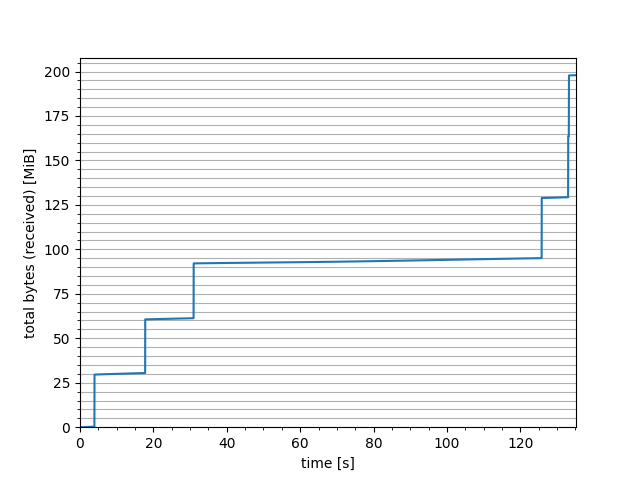
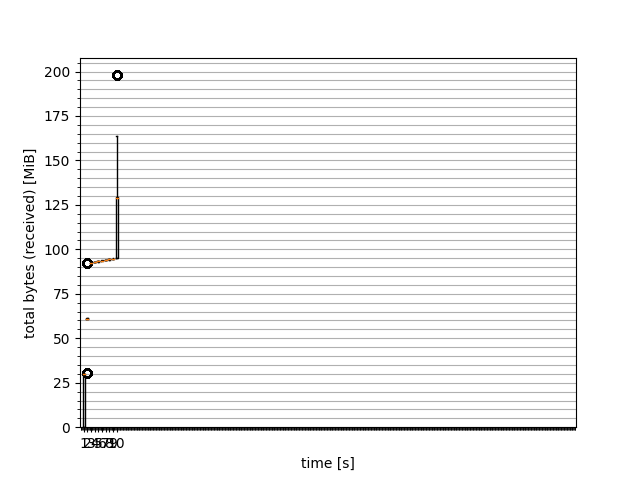
add functionality to create median graphs

diff --git a/DataOutput.py b/DataOutput.py
@@ -39,17 +39,17 @@ class DataOutput:
         self.pps_recv = pps_recv
         self.pps_sent = pps_sent
 
-    def make_graphs_for_directory(self, dir_path):
+    def make_graphs_for_directory(self, dir_path, full, median):
         try:
             for file in os.listdir(dir_path):
                 if file[-5:] == ".json":
                     file_path = dir_path + "/" + file
-                    self.make_graphs_for_file(file_path)
+                    self.make_graphs_for_file(file_path, full, median)
                     plt.close()
         except NotADirectoryError:
             print_err("The given path is not a directory!")
 
-    def make_graphs_for_file(self, file_path):
+    def make_graphs_for_file(self, file_path, full, median):
         self.file = open(file_path)
         self.data = json.load(self.file)
         file_name = os.path.basename(file_path)
@@ -58,7 +58,7 @@ class DataOutput:
             print_warn(f"Skipping {file_name}. Not a json file!")
             return
 
-        self.__make_graph(file_name)
+        self.__make_graph(file_name, full, median)
 
     def compare_graphs(self, path, number_of_files):
         # check if the number of files is too high
@@ -247,7 +247,7 @@ class DataOutput:
                 plt.clf()
                 print(f"File saved as {short_path}/{l}.png.")
 
-    def __make_graph(self, file_name):
+    def __make_graph(self, file_name, full, median):
         self.__reset_lists()
         self.__fill_lists()
         timestamps = self.__get_timestamps()
@@ -262,7 +262,8 @@ class DataOutput:
 
                 plt.grid(True, "both", "y")
                 plt.xlabel("time [s]")
-                # plt.minorticks_on()
+                if not median:
+                    plt.minorticks_on()
 
                 if l == "bytes_recv" or l == "bytes_sent":
                     # get the unit of the maximum value and use it for all values
@@ -280,69 +281,51 @@ class DataOutput:
 
                     plt.xlim([0, max(timestamps)])
                     plt.ylim([0, max(values) + 0.05 * max(values)])
-
-                    # plt.plot(timestamps, values)
-                    data = []
-                    nr = len(timestamps)
-
-                    sub_data = []
-                    init_cnt = nr // 10
-                    print(nr)
-                    print(init_cnt)
-                    cnt = init_cnt
-                    for e in self.lists[l]:
-                        sub_data.append(e)
-                        if cnt > 1:
-                            cnt -= 1
-                        else:
-                            cnt = init_cnt
-                            data.append(sub_data)
-                            sub_data = []
-
-                    # plt.plot(timestamps, self.lists[l])
-                    plt.boxplot(data)
+                    
+                    if median:
+                        data = self.__partition_data(self.lists[l], len(timestamps))
+                        plt.boxplot(
+                            data,
+                            showfliers=True,
+                            flierprops=dict(marker="x", markeredgecolor="lightgrey"),
+                            medianprops=dict(color="blue", linewidth=1.5),
+                        )
+                    else:
+                        plt.xlim([0, max(timestamps)])
+                        plt.plot(timestamps, self.lists[l])
                 elif l == "cpu_percent" or l == "ram_percent":
                     if l == "cpu_percent":
                         plt.ylabel("CPU usage [%]")
                     else:
                         plt.ylabel("RAM usage [%]")
 
-                    if min(self.lists[l]) <= 15:
-                        min_limit = 0
+                    min_limit = 0
+                    max_limit = 100
+
+                    if not full:
+                        if min(self.lists[l]) > 15:
+                            min_limit = 0.95 * min(
+                                self.lists[l]
+                            )  # set min_limit to 5 percent less than the actual minimum
+
+                        if max(self.lists[l]) < 85:
+                            max_limit = 1.05 * max(
+                                self.lists[l]
+                            )  # set max_limit to 5 percent more than the actual maximum
+
+                    plt.ylim([min_limit, max_limit])
+
+                    if median:
+                        data = self.__partition_data(self.lists[l], len(timestamps))
+                        plt.boxplot(
+                            data,
+                            showfliers=True,
+                            flierprops=dict(marker="x", markeredgecolor="lightgrey"),
+                            medianprops=dict(color="blue", linewidth=1.5),
+                        )
                     else:
-                        min_limit = 0.95 * min(
-                            self.lists[l]
-                        )  # set min_limit to 5 percent less than the actual minimum
-
-                    if max(self.lists[l]) >= 85:
-                        max_limit = 100
-                    else:
-                        max_limit = 1.05 * max(
-                            self.lists[l]
-                        )  # set max_limit to 5 percent more than the actual maximum
-
-                    # plt.xlim([0, max(timestamps)])
-                    plt.ylim([0, 100])
-
-                    data = []
-                    nr = len(timestamps)
-
-                    sub_data = []
-                    init_cnt = nr // 8
-                    print(nr)
-                    print(init_cnt)
-                    cnt = init_cnt
-                    for e in self.lists[l]:
-                        sub_data.append(e)
-                        if cnt > 1:
-                            cnt -= 1
-                        else:
-                            cnt = init_cnt
-                            data.append(sub_data)
-                            sub_data = []
-
-                    # plt.plot(timestamps, self.lists[l])
-                    plt.boxplot(data, showfliers=True, flierprops = dict(marker = "x", markeredgecolor='lightgrey'), medianprops = dict(color = "blue", linewidth = 1.5))
+                        plt.xlim([0, max(timestamps)])
+                        plt.plot(timestamps, self.lists[l])
                 elif l == "pps_recv" or l == "pps_sent":
                     if l == "pps_recv":
                         plt.ylabel("packets per second (received)")
@@ -356,11 +339,16 @@ class DataOutput:
                 else:
                     plt.plot(timestamps, self.lists[l])
 
-                plt.savefig(os.path.join(file_path, l))
-                plt.clf()
+                if median:
+                    l += "_median"
+                    
+                if full:
+                    l += "_full"
 
-                no_data = False
+                plt.savefig(os.path.join(file_path, l))
                 print(f"File saved as {short_path}/{l}.png.")
+                plt.clf()
+                no_data = False
         if no_data == True:
             print("No data. Not printing any graphs.")
 
@@ -370,6 +358,23 @@ class DataOutput:
     def __reset_lists(self):
         for l in self.lists:
             self.lists[l] = []
+
+    def __partition_data(self, initial_data, number_timestamps, number_blocks=8):
+        data = []
+        sub_data = []
+        init_cnt = number_timestamps // 8
+        cnt = init_cnt
+
+        for e in initial_data:
+            sub_data.append(e)
+            if cnt > 1:
+                cnt -= 1
+            else:
+                cnt = init_cnt
+                data.append(sub_data)
+                sub_data = []
+
+        return data
 
     def __fill_lists(self):
         for i in range(len(self.data["data"])):
@@ -468,6 +473,24 @@ def cli(compare, path):
                 "pps_sent",
             ],
         ),
+        inquirer.List(
+            "full",
+            message="Create full or detailed graphs?",
+            choices=[
+                "only full graphs (0 to 100 percent)",
+                "only detailed graphs",
+                "both",
+            ],
+        ),
+        inquirer.List(
+            "median",
+            message="Create min/max/median graphs?",
+            choices=[
+                "only min/max/median graphs",
+                "only normal graphs",
+                "both",
+            ],
+        ),
     ]
 
     answers = inquirer.prompt(questions)
@@ -476,10 +499,35 @@ def cli(compare, path):
         print_err("Something went wrong!")
         return
 
+    for a in answers:
+        if a == None:
+            print_err("Something went wrong!")
+            return
+
     if "all" in answers["values"]:
         all = True
     else:
         all = False
+
+    if answers["full"] == "only full graphs (0 to 100 percent)":
+        full_graphs = True
+        detailed_graphs = False
+    elif answers["full"] == "only detailed graphs":
+        full_graphs = False
+        detailed_graphs = True
+    else:
+        full_graphs = True
+        detailed_graphs = True
+
+    if answers["median"] == "only min/max/median graphs":
+        median_graphs = True
+        normal_graphs = False
+    elif answers["median"] == "only normal graphs":
+        median_graphs = False
+        normal_graphs = True
+    else:
+        median_graphs = True
+        normal_graphs = True
 
     if compare == 0 or compare == 1:
         # if path is directory
@@ -493,7 +541,14 @@ def cli(compare, path):
                 pps_sent="pps_sent" in answers["values"] or all,
             )
             print("Creating graphs for all json files in the directory...")
-            output.make_graphs_for_directory(path)
+            if full_graphs and median_graphs:
+                output.make_graphs_for_directory(path, full=True, median=True)
+            if full_graphs and normal_graphs:
+                output.make_graphs_for_directory(path, full=True, median=False)
+            if detailed_graphs and median_graphs:
+                output.make_graphs_for_directory(path, full=False, median=True)
+            if detailed_graphs and normal_graphs:
+                output.make_graphs_for_directory(path, full=False, median=False)
         # if path is json file
         elif os.path.isfile(path) and path[-5:] == ".json":
             output = DataOutput(
@@ -505,7 +560,14 @@ def cli(compare, path):
                 pps_sent="pps_sent" in answers["values"] or all,
             )
             print("Creating graphs for the file...")
-            output.make_graphs_for_file(path)
+            if full_graphs and median_graphs:
+                output.make_graphs_for_file(path, full=True, median=True)
+            if full_graphs and normal_graphs:
+                output.make_graphs_for_file(path, full=True, median=False)
+            if detailed_graphs and median_graphs:
+                output.make_graphs_for_file(path, full=False, median=True)
+            if detailed_graphs and normal_graphs:
+                output.make_graphs_for_file(path, full=False, median=False)
         # if path is other file
         elif os.path.exists(path):
             print_err("The given file is not a json file.")
